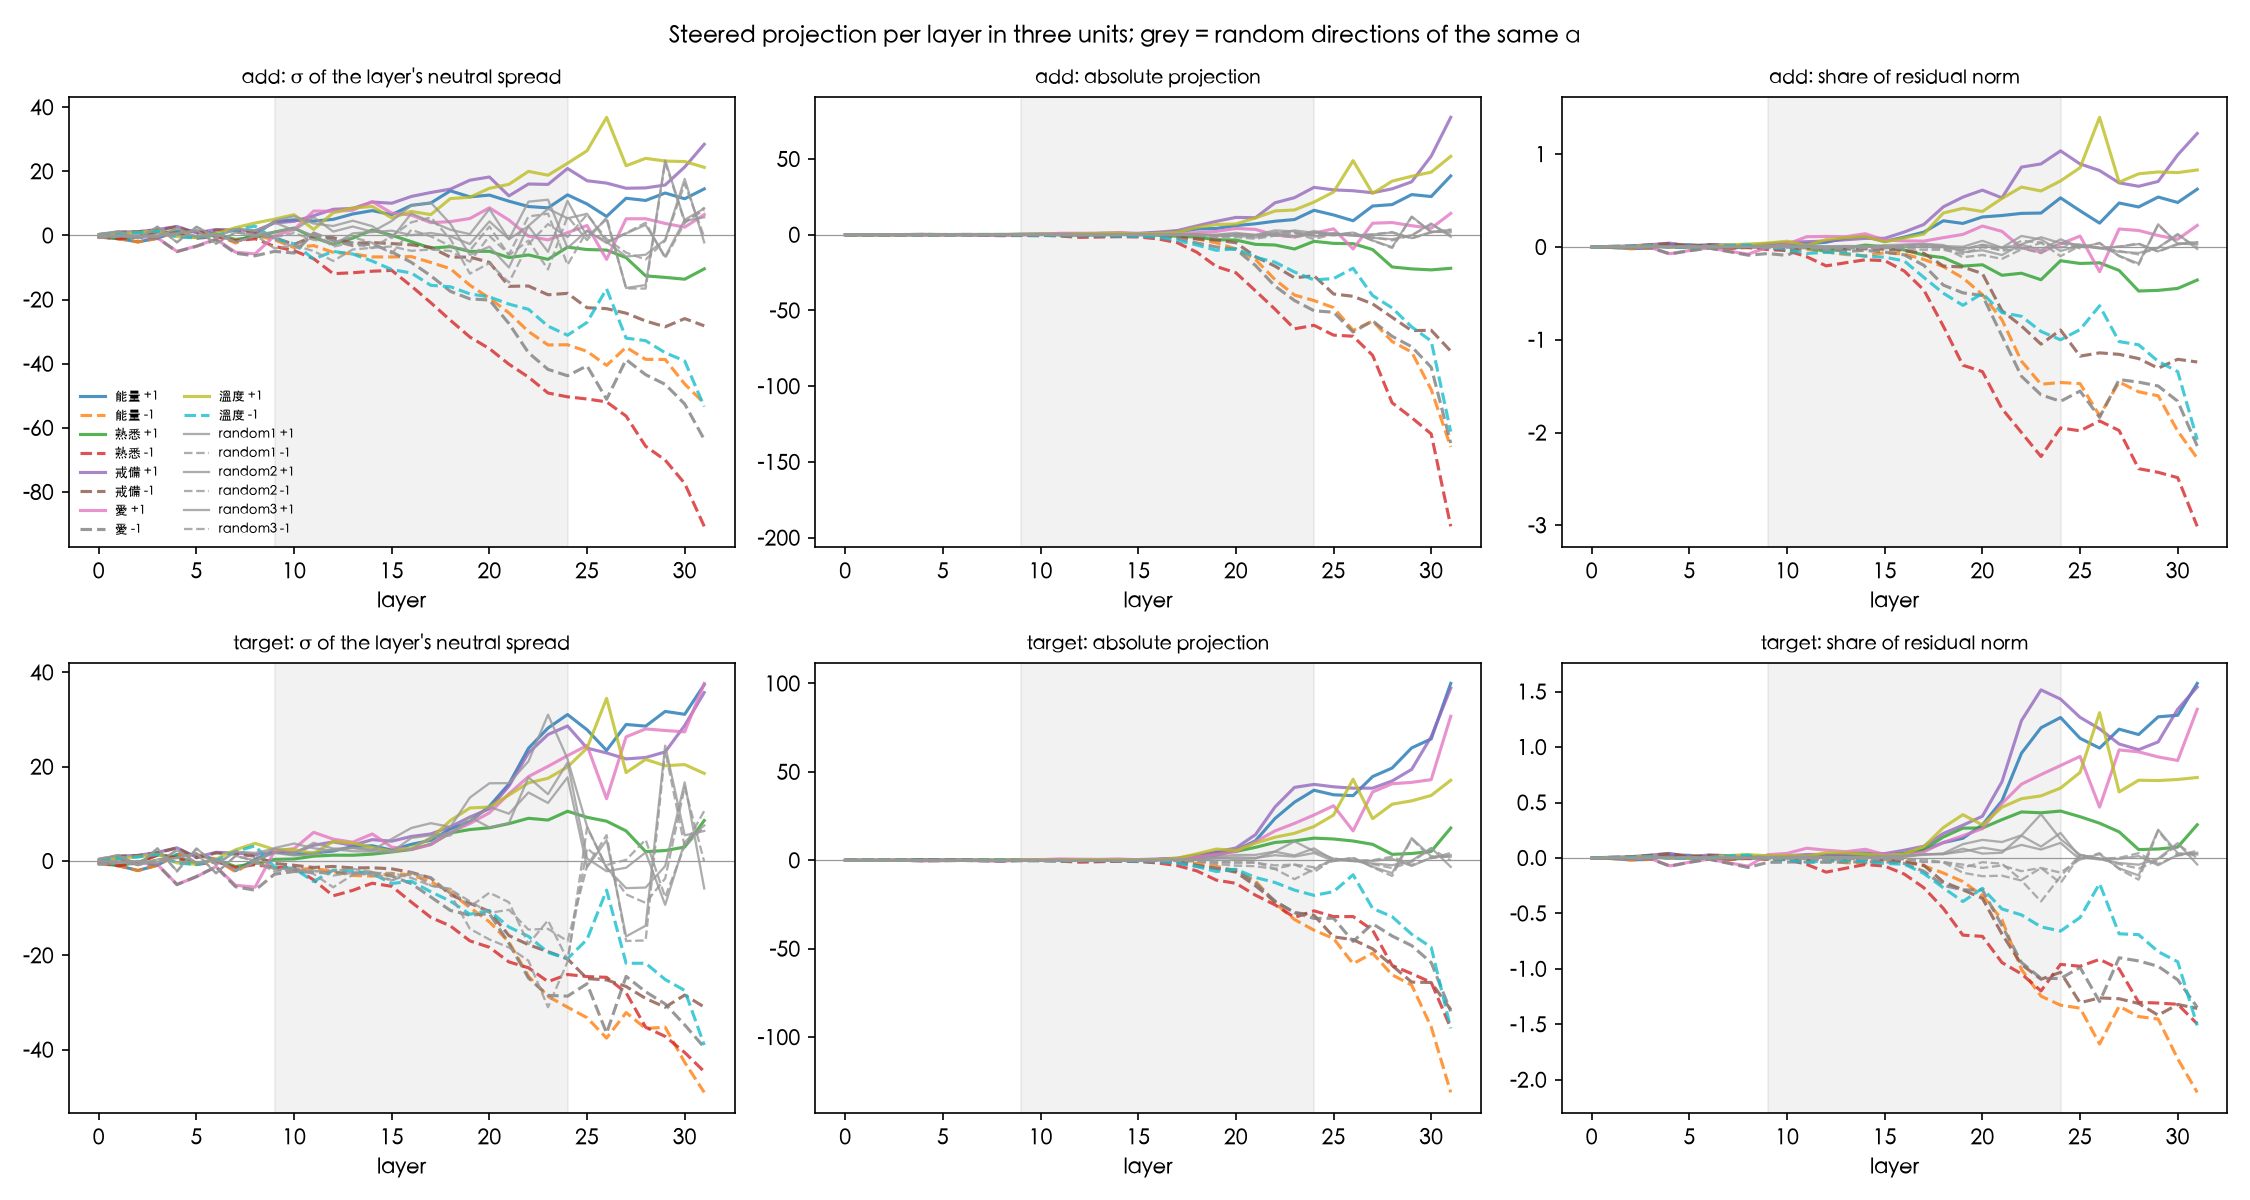
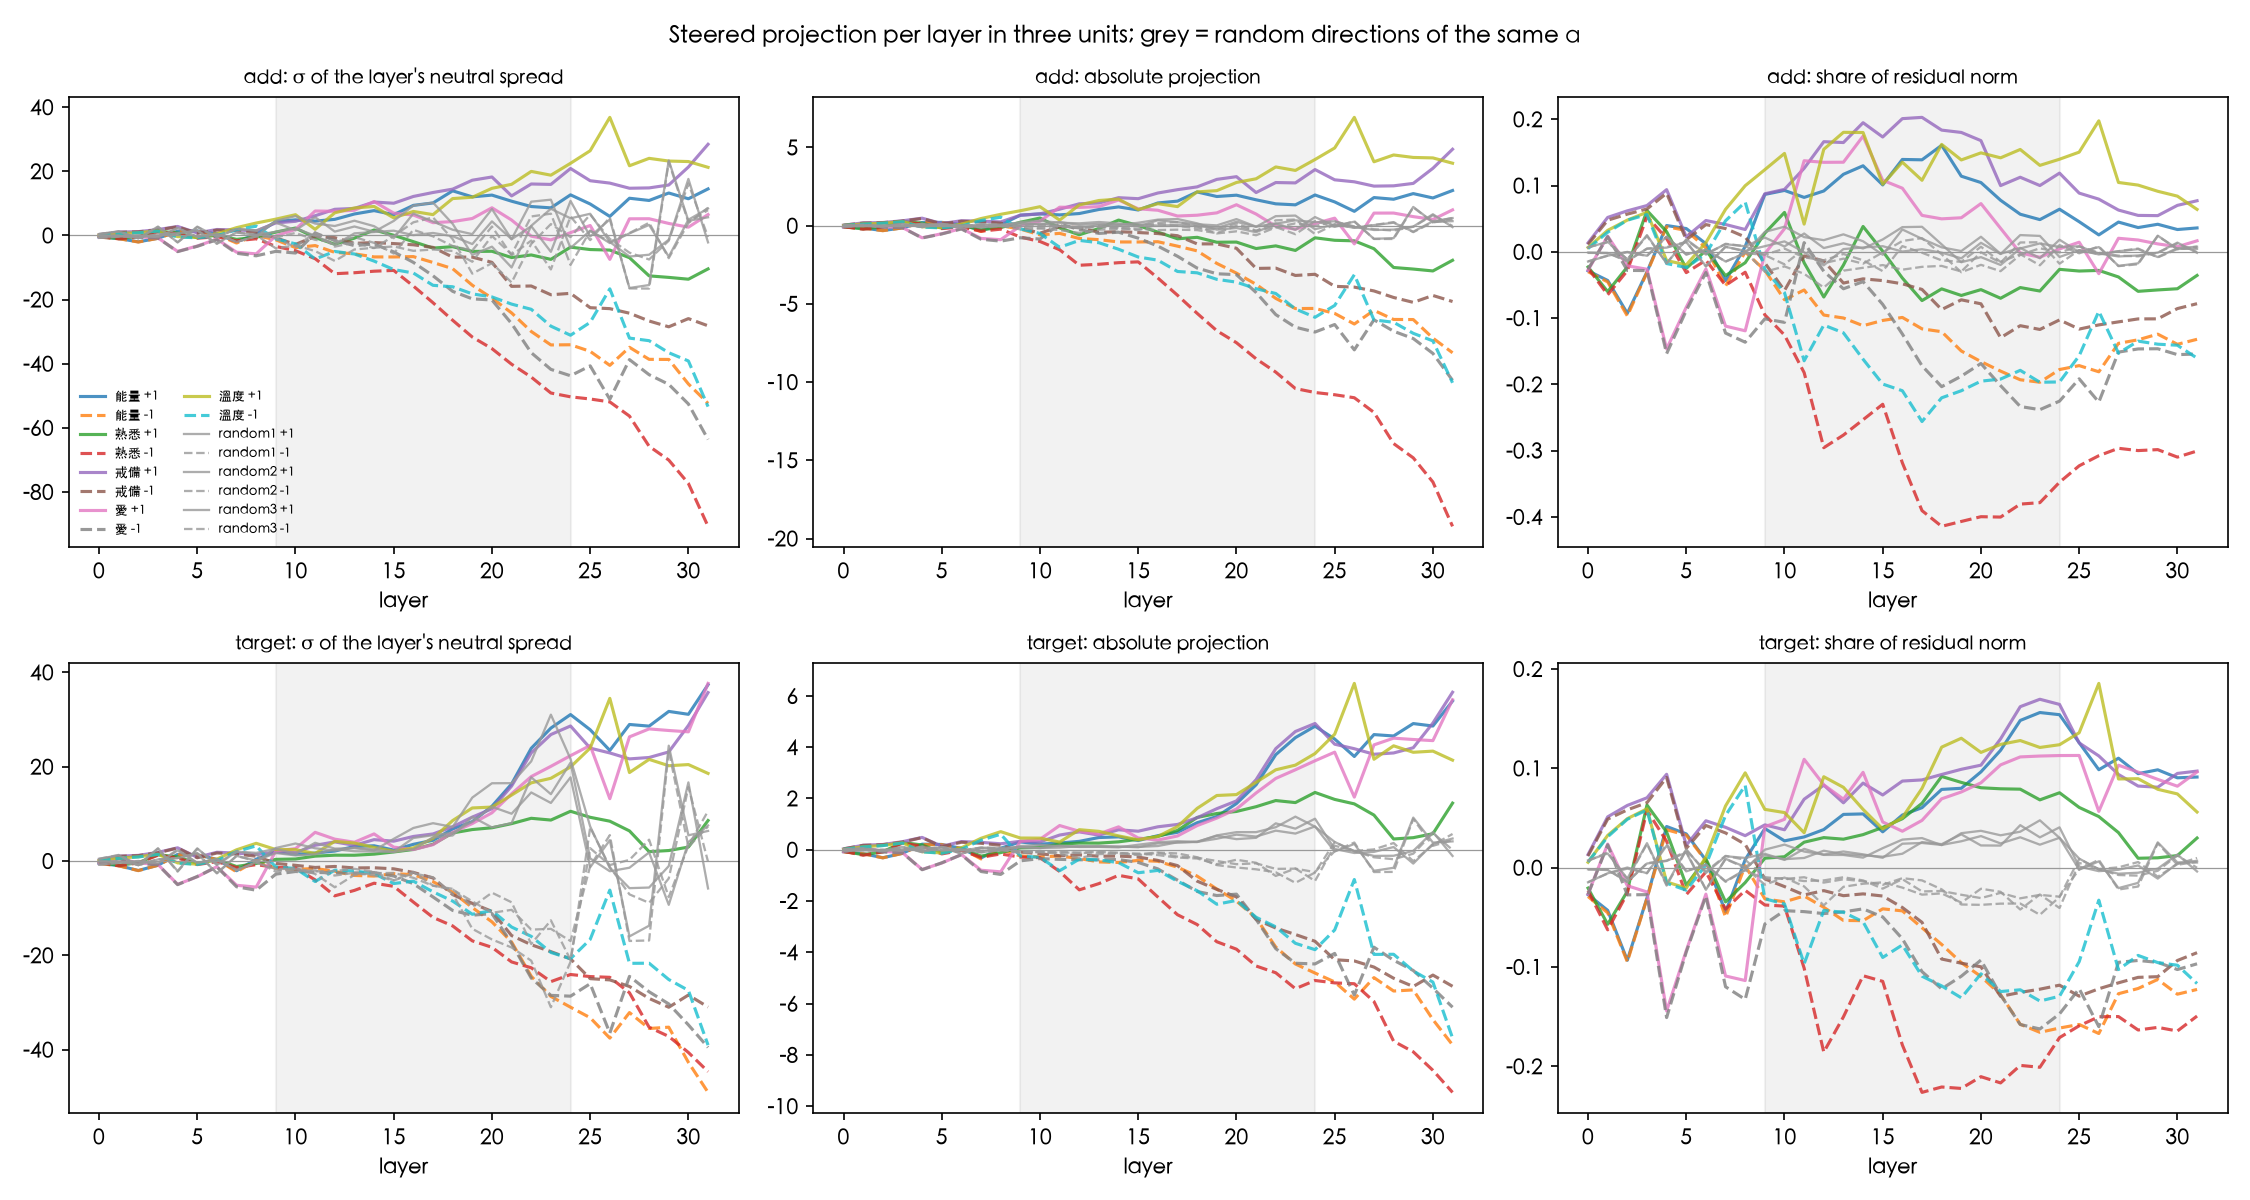
research: the math in one place; the controls' absolute unit corrected
docs/research/math.md collects every formula in use: extraction and
its statistics, the alpha and its gate and budget, the four ways a
shift is applied, direct physiology and the entropy loop, the nameless
endocrine system, the trace's unit, the attribution graph, the KL probe
with its temperature match, and the statistics.

Writing it down exposed a unit error in controls.py: the trace reports
projections in units of the band-median scale s_d, not the per-layer
σ, so "absolute" values were inflated by about an order of magnitude.
Corrected, the output gain is 14.4× for leanings against 0.5× for
random directions, not 200× against 4.6×. The reading changes from
"amplified" to "kept and grown a little after the band, while random
additions are absorbed". The log and draft are corrected.

diff --git a/research/experiments/controls.py b/research/experiments/controls.py
@@ -1,9 +1,9 @@
 #!/usr/bin/env python3
 """The accumulation result put to its controls (experiments/run.py --all-curves with random directions):
 
-  units      the steered direction's projection per layer in three units: σ of that layer's neutral spread (the
-             panel's unit), absolute (raw projection, the same unit at every layer), and as a share of the residual
-             norm at that layer (so a norm that grows with depth cannot pass for amplification);
+  units      the steered direction's projection per layer in three units: the trace's σ (the band-median neutral
+             spread s_d, the panel's unit), absolute (projection × s_d, the same unit at every layer), and as a
+             share of the residual norm at that layer (so a norm that grows with depth cannot pass for amplification);
   gain       projection reached at the band's last layer and at the output over the amount added per layer, in
              absolute units, for leanings and for random directions of the same α;
   default    where the unsteered model already sits along each direction, per layer (the baseline rows), so a sign
@@ -54,8 +54,8 @@ def main():
         out = []
         for r in rows:
             sig = np.array(r["curves"][dim])
-            spread = vectors.spreads[dim]
-            absolute = sig * spread
+            # The trace's unit is the band-median scale s_d (steer.py watch), the same at every layer.
+            absolute = sig * vectors.scales[dim]
             if unit == "sigma":
                 out.append(sig)
             elif unit == "abs":
@@ -71,7 +71,7 @@ def main():
         sig = np.mean([r["curves"][dim] for r in rows], axis=0)
         if unit == "sigma":
             return sig
-        absolute = sig * vectors.spreads[dim]
+        absolute = sig * vectors.scales[dim]
         return absolute if unit == "abs" else absolute / np.maximum(np.mean([r["norms"] for r in rows], axis=0), 1e-6)
 
     lines = [f"# {tag}: controls", "", f"{model}, {len(setup['prompts'])} prompts, band {band[0]}–{band[1]}.", ""]

diff --git a/research/math.md b/research/math.md
@@ -1,0 +1,136 @@
+# 用到的數學
+
+符號：`d` 隱藏維度（Qwen3.5-4B 為 2560），`L` 層數（32），操控段 band = [⌊0.3L⌋, ⌊0.8L⌋) = 第 9–24 層。`h_l ∈ ℝ^d` 是第 `l` 層輸出的殘差流（在最後一個位置）。傾向集合 `D` = {能量、溫度、戒備、專注、玩心、耐心、主動、熟悉、愛}。
+
+## 1. 殘差流
+
+每一層只在同一條向量上加東西：
+
+```
+h_{l+1} = h_l + Δ_l,    Δ_l = Attn_l(Norm(h_l)) + MLP_l(Norm(h_l + Attn_l(…)))
+```
+
+所有介入都作用在 `h_{l+1}` 或 `Δ_l` 上；Norm 在每個子層內部，所以乘在 `Δ_l` 上的增益不會被正規化抵銷。
+
+## 2. 方向抽取（`extract.py`）
+
+- 中性激活：同樣 20 句話在中性系統提示下，取最後一個提示 token 的每層殘差，`N ∈ ℝ^{P×L×d}`。
+- 對比：同樣 20 句在兩個相反指令下，`A⁺, A⁻ ∈ ℝ^{P×L×d}`。
+- 方向（mean-difference）：`δ_l = mean_p A⁺_{p,l} − mean_p A⁻_{p,l}`，`v_l = δ_l / ‖δ_l‖`。
+- 干擾軸：語言、簡繁、長度、emoji、戀愛／性、粗俗，各用同樣方法抽出 `u_{k,l}`，逐層 Gram–Schmidt 成正交；成分 `c_k = (v_l·u_{k,l})`，分享 = band 平均的 `c_k²`，cosine = `√分享`。
+- 投影掉（除了保留的，如愛保留戀愛軸、戒備與耐心保留粗俗軸）：`v ← v − Σ_k (v·u_k) u_k`，再正規化。
+- 每層統計：中性平均 `μ_{d,l} = mean_p (N_{p,l}·v_l)`，中性標準差 `σ_{d,l} = std_p (N_{p,l}·v_l)`，尺度 `s_d = median_{l∈band} σ_{d,l}`。
+- 極點距離（reach）：`r⁺_{d,l} = mean A⁺·v − μ`，`r⁻_{d,l} = μ − mean A⁻·v`。
+- 分離度 `= median_{l∈band} (δ_l·v_l)/σ_{d,l}`；傾向重疊 `cos(a,b) = mean_{l∈band} v_{a,l}·v_{b,l}`。
+- 預設位置 `= r⁻ / (r⁺ + r⁻)`（0 為負極、1 為正極）。
+- 隨機對照方向（`random_dirs.py`）：每層獨立的高斯向量正規化，`μ、σ` 照樣算，reach 取各傾向 reach（以各自 σ 為單位）的中位數。
+
+## 3. 從化學到傾向（runtime）
+
+- 偏離：`state_c = clip((perceived_c − temperament_c)/50, −1, 1)`，六種物質 `c`。
+- 投影：`behavior_d = clip(Σ_c W_{d,c}·state_c, −1, 1)`，`W` 手設或擬合（`fit_projection.py`）。
+- 熟悉：三項各自飽和 `f(x; τ) = 1 − e^{−x/τ}`（認識天數 τ=30、訊息數 τ=200、不同日子數 τ=14），`familiarity = −1 + 2(0.3 f₁ + 0.4 f₂ + 0.3 f₃)`。
+- 愛：`love = clip(stage + 0.35·max(0,OXY) + 0.15·max(0,END) − 0.4·max(0,CORT) − 0.3·max(0,guard), 0, 1) × gate`，`gate = (familiarity + 1)/2`，`stage ∈ {0, 0, 0.15, 0.45, 0.75}` 依關係階段。
+
+## 4. 有效強度 α（`steer.py`）
+
+- 線性：`raw_d = value_d × strength × damping_d`（strength 預設 2.5；折扣：耐心 0.6、戒備 0.8、熟悉 0.8、愛 0.8），`α_d = clip(raw_d, ±MAX)`，MAX = 3.5。
+- Hill 門控（可選）：`α_d = sign(raw)·MAX·|raw|^n / (K^n + |raw|^n)`，n = 2，K = 1.5。有門檻、會飽和。
+- 總預算：若 `Σ_d |α_d| > TOTAL`（5.0），全部乘 `TOTAL / Σ|α|`。
+
+## 5. 四種作用方式
+
+對 band 裡每一層 `l`，每個生成的 token：
+
+**add**（激活加法，CAA 式）
+```
+h_{l+1} ← h_{l+1} + Σ_d α_d · s_d · v_{d,l}
+```
+
+**target**（單向補差；和 Assistant Axis 的 activation capping 同一運算，門檻動態）
+```
+p_d = v_{d,l}·h_{l+1} − μ_{d,l}                     現在偏了多少
+t_d = α_d · min( r^{sign(α_d)}_{d,l} / FULL , K_σ · σ_{d,l} )     FULL = 2.5，K_σ = 1.5
+h_{l+1} ← h_{l+1} + Σ_d [ max(0, t_d − p_d) ]⁺ · v_{d,l}   （t_d < 0 時取 min(0, t_d − p_d)）
+```
+只補差距，超過目標的不拉回。
+
+**ace**（仿射概念編輯）：只在 band 中間一層，雙向：`h ← h + (t_d − p_d) v`。
+
+**mul**（乘法增益，乘在這一層寫的量上）
+```
+g_d = 2^{α_d / MAX}
+w_d = v_{d,l} · Δ_l                                 這層更新量在方向上的分量
+h_{l+1} ← h_{l+1} + Σ_d (g_d − 1) · w_d · v_{d,l}
+```
+乘在 `Δ_l` 不乘在 `h` 上，所以不會跨層複利（第一版乘殘差偏離量，16 層後直接崩）。
+
+## 6. 直接生理（`physio_of`）
+
+輸入六種物質的偏離 `x_c ∈ [−1,1]` 和壓力 `stress ≥ 0`。Hill 門：`g(x) = sign(x)·|x|^2 / (0.5² + |x|^2)`。
+
+```
+arousal     = g( NE + 0.5·ADR − 0.5·END )
+strain      = g( max(0,CORT) + max(0,stress) )
+band_gain   = 1 + 0.5·arousal           Δ_l ← band_gain·Δ_l，l ∈ band
+late_gain   = 1 − 0.4·strain            Δ_l ← late_gain·Δ_l，l ∈ [⌊0.8L⌋, L)
+social_gain = 1 + 0.6·g(OXY)            Δ_l ← Δ_l + (social_gain − 1)·Q Qᵀ Δ_l，l ∈ band
+temperature ×= (1 + 0.4·max(0,g(DA))) / (1 + 0.5·max(0,g(ADR+NE)))
+```
+`Q ∈ ℝ^{d×3}` 是 {溫度, 愛, 熟悉} 三個方向在該層的正交基（QR）。均勻增益對照就是只開 `band_gain`。
+
+熵回饋（每個生成 token）：
+```
+H_t = −Σ_v p_t(v) log p_t(v)
+stress_{t+1} = 0.9·stress_t + 0.3·(H_t − usual_t)
+usual_{t+1}  = usual_t + 0.05·(H_t − usual_t)        起點為該模型基線回覆的平均熵（4B：2.6 nats）
+```
+
+## 7. 無名內分泌（`endocrine.py`）
+
+```
+s_t = [ H_t − b_H ,  −log p_t(token) − b_s ,  ‖h^{(l₀)}_t‖ / running_mean − 1 ,  H_t − H_{t−1} ]
+h_{t+1} = D·h_t + W·s_t + C·tanh(h_t)          h ∈ ℝ^k，D 對角（各自衰減），C 零對角
+gain_l  = 1 + R_l · tanh(h)                     R_l ∈ ℝ^{d×k}，稀疏（密度 2–20%）
+Δ_l ← Δ_l ⊙ gain_l
+```
+大小：`RMS(gain − 1)` 分全部單元與有受體的單元，用來和均勻增益對齊。
+
+## 8. 前向傳播 trace 與放大的量法
+
+每個 token、每層記 `‖h_l‖` 和 `(v_{d,l}·h_l − μ_{d,l}) / s_d`（注意單位是 band 中位尺度 `s_d`，不是該層的 `σ_{d,l}`）。
+
+對照分析（`controls.py`）三種單位：
+- σ 單位：trace 的值。
+- 絕對：`trace × s_d`。
+- 佔殘差範數比例：`絕對 / ‖h_l‖`。
+
+增益：`G = |proj_out − default_out| / added`，`added` 是每層加入的絕對量（add：`α·s_d`；target：`α·K_σ·median_{band} σ`），`default` 是不操控時的位置。
+
+## 9. 歸因圖（`attribute.py`）
+
+目標 token 的 log 機率對每層零探針的梯度 `g_l = ∂ log p(target) / ∂ε_l`（只對最後 24 個 token 微分）：
+```
+傾向節點 (l,d)： (g_l·v_{d,l}) · (v_{d,l}·h_l − μ_{d,l})
+steering 節點 l： g_l · shift_l
+層更新節點 l：   g_l · (h_l − h_{l−1})
+輸入字 j：       Σ_i g_in[j,i] · x_in[j,i]
+```
+邊：對目標節點 `(l,d)` 改用 `v_{d,l}·h_l` 當目標函數求梯度 `g'`；來源 `(l₂,d₂)`，先去掉和目標方向重疊的部分 `v₂' = normalize(v₂ − (v₂·v)v)`，權重 `(g'_{l₂}·v₂')·(v₂'·(h_{l₂} − h_{l₂−1}))`：只算該層寫的量，不算殘差帶下去的。
+
+## 10. KL 探針（`/divergence`）
+
+沿固定回覆 teacher-forced，每個位置的原始分佈 `p` 和介入後 `q`：
+```
+KL(p‖q) = Σ_v p(v)(log p(v) − log q(v))
+溫度匹配： p_T ∝ p^{1/T}，T ∈ {0.5,…,2.5}；殘差 = min_T KL(q‖p_T)，擬合 T = argmin
+```
+殘差是溫度解釋不了的部分；純調溫在各 T 下的 `KL(p‖p_T)` 也回報，供匹配。
+
+## 11. 統計
+
+平均、標準誤 `s/√n`、95% CI `±1.96 s.e.`；長度共變量用 Pearson 相關；評審與人工的一致性用 Pearson 和「差距 ≤ 1 的比例」。
+
+## 12. 訓練資料裡的 budget forcing
+
+思考超過 `max_tokens/2` 時插入 `</think>`，從提示的快取接續生成；這是推論工程，不是本文貢獻。

diff --git a/research/data/2026-10-27-controls/controls.md b/research/data/2026-10-27-controls/controls.md
@@ -6,24 +6,24 @@ mlx-community/Qwen3.5-4B-MLX-4bit, 20 prompts, band 9–24.
 
 | direction | method | +1 added/layer | +1 gain band / out | −1 added/layer | −1 gain band / out |
 |---|---|---|---|---|---|
-| 能量 | add | 0.388 | 81.7 / 255.9 | 0.388 | 72.1 / 205.5 |
-| 能量 | target | 0.493 | 111.8 / 325.4 | 0.493 | 48.7 / 143.7 |
-| 熟悉 | add | 0.424 | 52.2 / 147.6 | 0.424 | 78.7 / 254.6 |
-| 熟悉 | target | 0.517 | 75.4 / 198.8 | 0.517 | 4.1 / 19.5 |
-| 戒備 | add | 0.344 | 91.7 / 246.6 | 0.344 | 78.0 / 202.1 |
-| 戒備 | target | 0.414 | 104.2 / 252.6 | 0.414 | 74.5 / 186.0 |
-| 愛 | add | 0.311 | 85.9 / 255.2 | 0.311 | 78.9 / 232.8 |
-| 愛 | target | 0.397 | 129.4 / 369.7 | 0.397 | 18.1 / 51.0 |
-| 溫度 | add | 0.470 | 57.2 / 206.1 | 0.470 | 52.1 / 180.4 |
-| 溫度 | target | 0.508 | 48.1 / 178.1 | 0.508 | 28.6 / 98.2 |
-| random1 | add | 0.104 | 5.4 / 9.1 | 0.104 | 7.8 / 1.3 |
-| random1 | target | 0.144 | 30.6 / 22.9 | 0.144 | 39.9 / 2.4 |
-| random2 | add | 0.145 | 4.1 / 2.3 | 0.145 | 7.7 / 1.6 |
-| random2 | target | 0.145 | 59.3 / 4.6 | 0.145 | 34.0 / 3.6 |
-| random3 | add | 0.128 | 5.5 / 3.4 | 0.128 | 3.2 / 2.0 |
-| random3 | target | 0.118 | 19.7 / 1.8 | 0.118 | 48.4 / 0.7 |
+| 能量 | add | 0.388 | 9.9 / 14.8 | 0.388 | 8.8 / 11.9 |
+| 能量 | target | 0.493 | 13.6 / 18.9 | 0.493 | 5.9 / 8.3 |
+| 熟悉 | add | 0.424 | 9.3 / 14.7 | 0.424 | 14.0 / 25.4 |
+| 熟悉 | target | 0.517 | 13.4 / 19.9 | 0.517 | 0.7 / 2.0 |
+| 戒備 | add | 0.344 | 10.5 / 15.6 | 0.344 | 8.9 / 12.8 |
+| 戒備 | target | 0.414 | 12.0 / 15.9 | 0.414 | 8.5 / 11.7 |
+| 愛 | add | 0.311 | 11.6 / 18.3 | 0.311 | 10.7 / 16.7 |
+| 愛 | target | 0.397 | 17.5 / 26.6 | 0.397 | 2.5 / 3.7 |
+| 溫度 | add | 0.470 | 11.2 / 15.9 | 0.470 | 10.2 / 13.9 |
+| 溫度 | target | 0.508 | 9.5 / 13.8 | 0.508 | 5.6 / 7.6 |
+| random1 | add | 0.104 | 1.0 / 0.6 | 0.104 | 1.4 / 0.1 |
+| random1 | target | 0.144 | 5.4 / 1.5 | 0.144 | 7.0 / 0.2 |
+| random2 | add | 0.145 | 0.7 / 0.3 | 0.145 | 1.4 / 0.2 |
+| random2 | target | 0.145 | 10.7 / 0.7 | 0.145 | 6.1 / 0.5 |
+| random3 | add | 0.128 | 1.2 / 0.6 | 0.128 | 0.7 / 0.3 |
+| random3 | target | 0.118 | 4.4 / 0.3 | 0.118 | 10.7 / 0.1 |
 
-Mean gain at the output: leanings 200.5, random 4.6.
+Mean gain at the output: leanings 14.4, random 0.5.
 
 ## Where the unsteered model sits (σ), per direction: at the band start, band end and output
 

diff --git a/research/paper-draft.md b/research/paper-draft.md
@@ -15,7 +15,7 @@
 - 兩種進模型的方式：(A) 轉譯成九個行為傾向，抽方向，加進殘差流；(B) 不轉譯，激素當增益。
 - 主張：
   1. (A) 在小模型上可做但有結構性限制：方向重疊、零點不在模型預設、放大。（**有資料**）
-  2. 語意方向會被下游放大，隨機方向不會；放大在操控段外持續。（**有資料，單一模型**；9B、Gemma 4 **進行中**）
+  2. 加在語意方向上的量被殘差流保留並在操控段後續長，加在隨機方向上的量被吸收（差約 30 倍）。（**有資料，單一模型**；9B、Gemma 4 **進行中**）
   3. 社交方向和戀愛／性內容共線，分出「愛」後只留在一處；這個幾何在 Qwen3.5-4B、9B 和 Gemma 4 E4B 上一致。（**有資料，三模型，方向層面**；生成層面效果小）
   4. (B) 的可行性：乘法增益、門控、熵回饋、無名內分泌。（**程式完成，資料未有**）
 
@@ -44,7 +44,7 @@
 
 4.1 方向重疊與評審混淆（表：cos 矩陣；混淆矩陣圖 `2026-10-26-e2e3-e2_recognition.png`）。
 4.2 零點：模型預設在某些軸上已偏在一極（主動 0.80、熟悉 0.84）；生成時更遠（段末 −22σ）。
-4.3 放大：隨機對照（圖 `2026-10-27-controls-units.png`）。增益 200× 對 4.6×；出段後傾向續長、隨機衰減。
+4.3 保留與吸收：隨機對照（圖 `2026-10-27-controls-units.png`）。以每層加入的絕對量為單位，傾向方向在段末保留約 0.6–0.9（16 層相加的 9–14×），段後再長到 12–25×；隨機方向段末 ≤ 1.4×、輸出端 ≤ 0.6×，幾乎全被吸收。輸出端平均 14.4× 對 0.5×。（先前的「200×」是單位錯誤，已更正。）
 4.4 方法比較：add 符合 3.03、target 2.72、ACE 2.15，連貫相當（圖 `2026-10-26-e2e3-e3_methods.png`）。截斷的限制要說明。
 
 ## 5. 共線（有資料，方向層面）

diff --git a/research/experiment-log.md b/research/experiment-log.md
@@ -19,9 +19,9 @@
 ## 2026-10-27 隨機方向對照（`data/2026-10-27-controls/`）
 
 - 設定：三條隨機單位方向加進向量檔，給同樣的每層統計；能量、溫度、戒備、熟悉、愛 + 三隨機，±1，add 與 target，20 句，記錄每層殘差範數與全部方向投影，基線也記。660 則。
-- 增益（絕對單位，輸出端偏移 ÷ 每層加入量）：傾向平均 200×，隨機 4.6×。隨機方向出段即衰減，傾向出段繼續長（輸出端是段末的 2.5–3×）。三種單位一致。
+- 增益（絕對單位，輸出端偏移 ÷ 每層加入量）：**更正（2026-10-27 晚）**：第一版把 trace 的單位當成各層的 σ，其實是 band 中位尺度 s_d，絕對值因此高估十幾倍（「200×」是錯的）。修正後：add 的傾向方向在段末約 9–14×、輸出端 12–25×；隨機方向段末 0.7–1.4×、輸出端 0.1–0.6×。16 層各加一次、完全不被動的話段末應是 16×：傾向方向大致**被保留**（約 0.6–0.9 的保留率）並在段後再長 1.3–1.8×；隨機方向幾乎**全被吸收**（只剩加入總量的 1/16 以下）。平均輸出端增益：傾向 14.4、隨機 0.5。三種單位形狀一致。
 - 不對稱：不操控時模型在生成階段已離零點很遠（熟悉、愛段末 −22σ）；target 單向補差遇到預設已超過目標就不動，造成假的不對稱；add 下兩側接近。
-- 意義：「語意方向被下游放大、隨機不會」有對照支持；「正負不對稱」撤回。零點問題指向乘法增益。
+- 意義：對照後的說法變成「語意方向上加的量被殘差流保留並在段後續長，隨機方向上加的量被吸收」。「放大 200 倍」撤回；「語意 vs 隨機差 30 倍」成立。「正負不對稱」撤回。零點問題指向乘法增益。
 
 ## 2026-10-27 向量抽取：三個模型（同一組兩極句、同一條流程）
 
